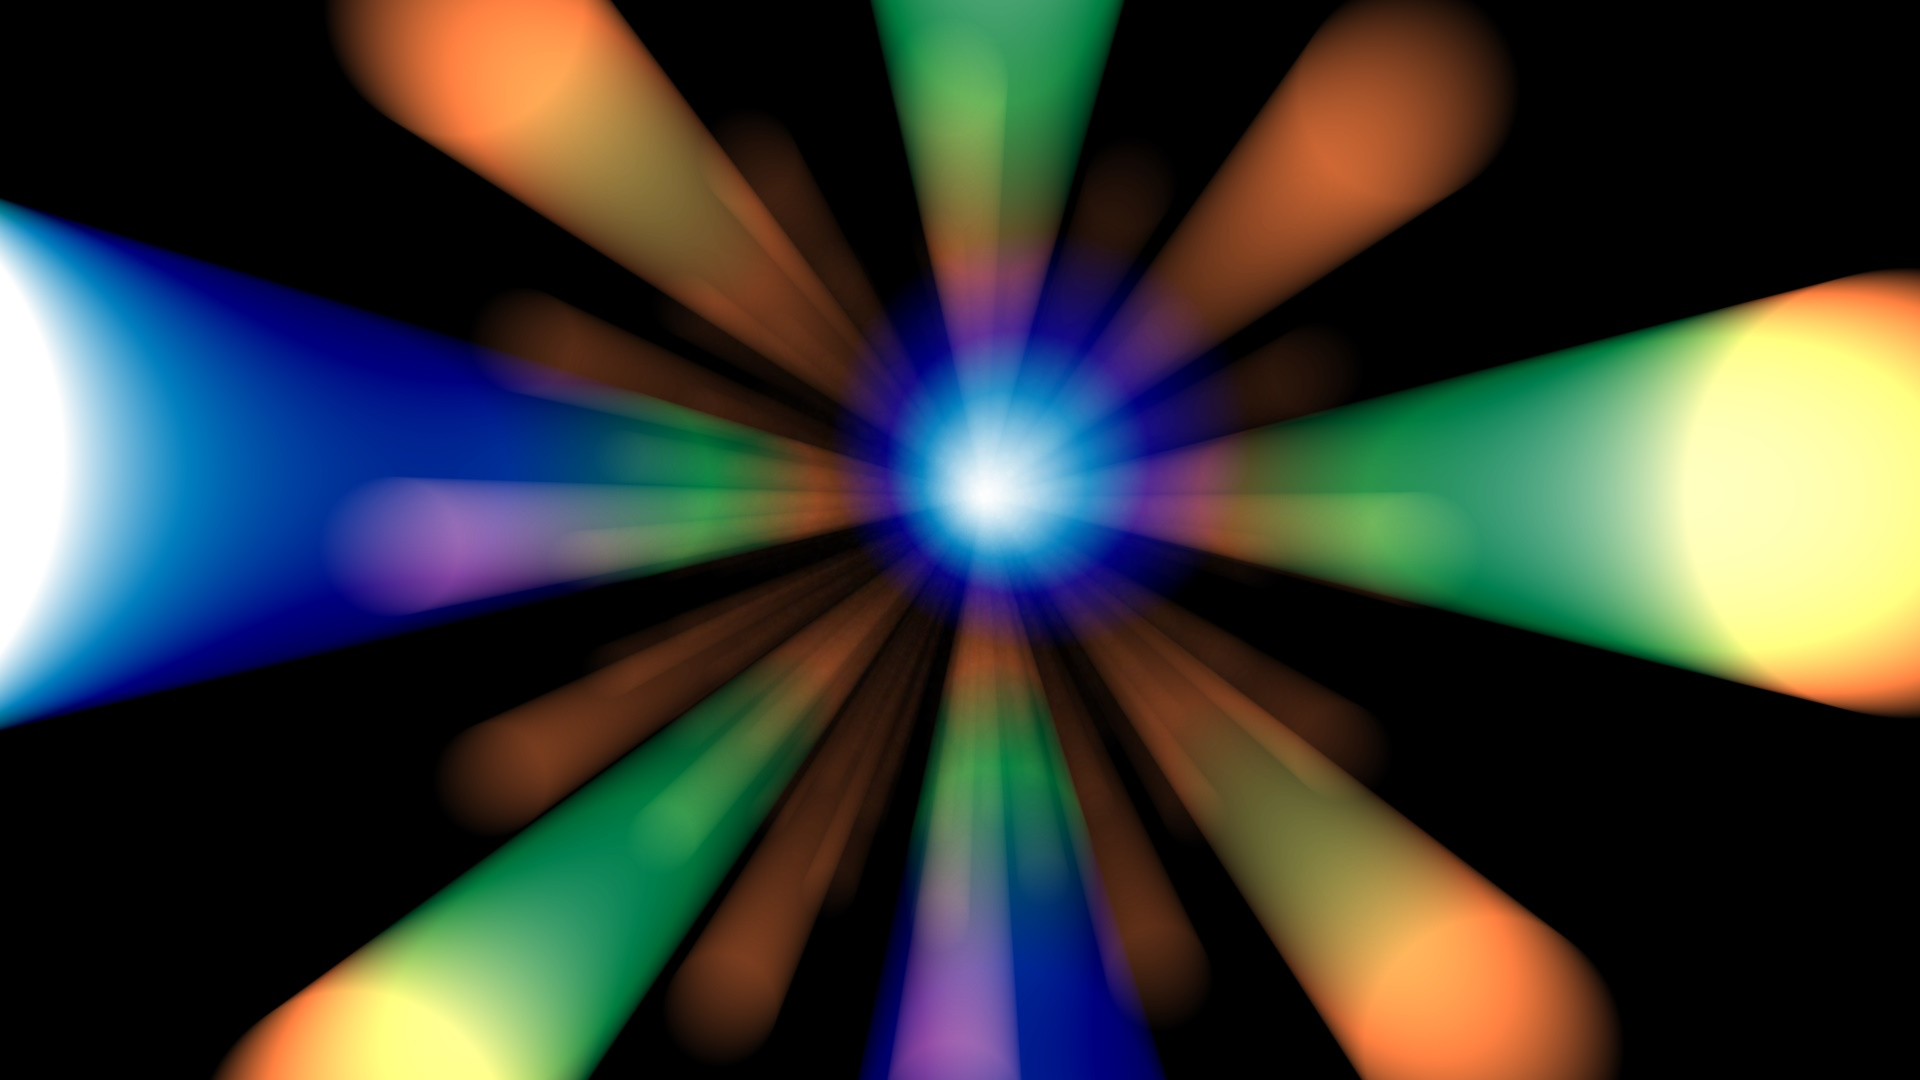
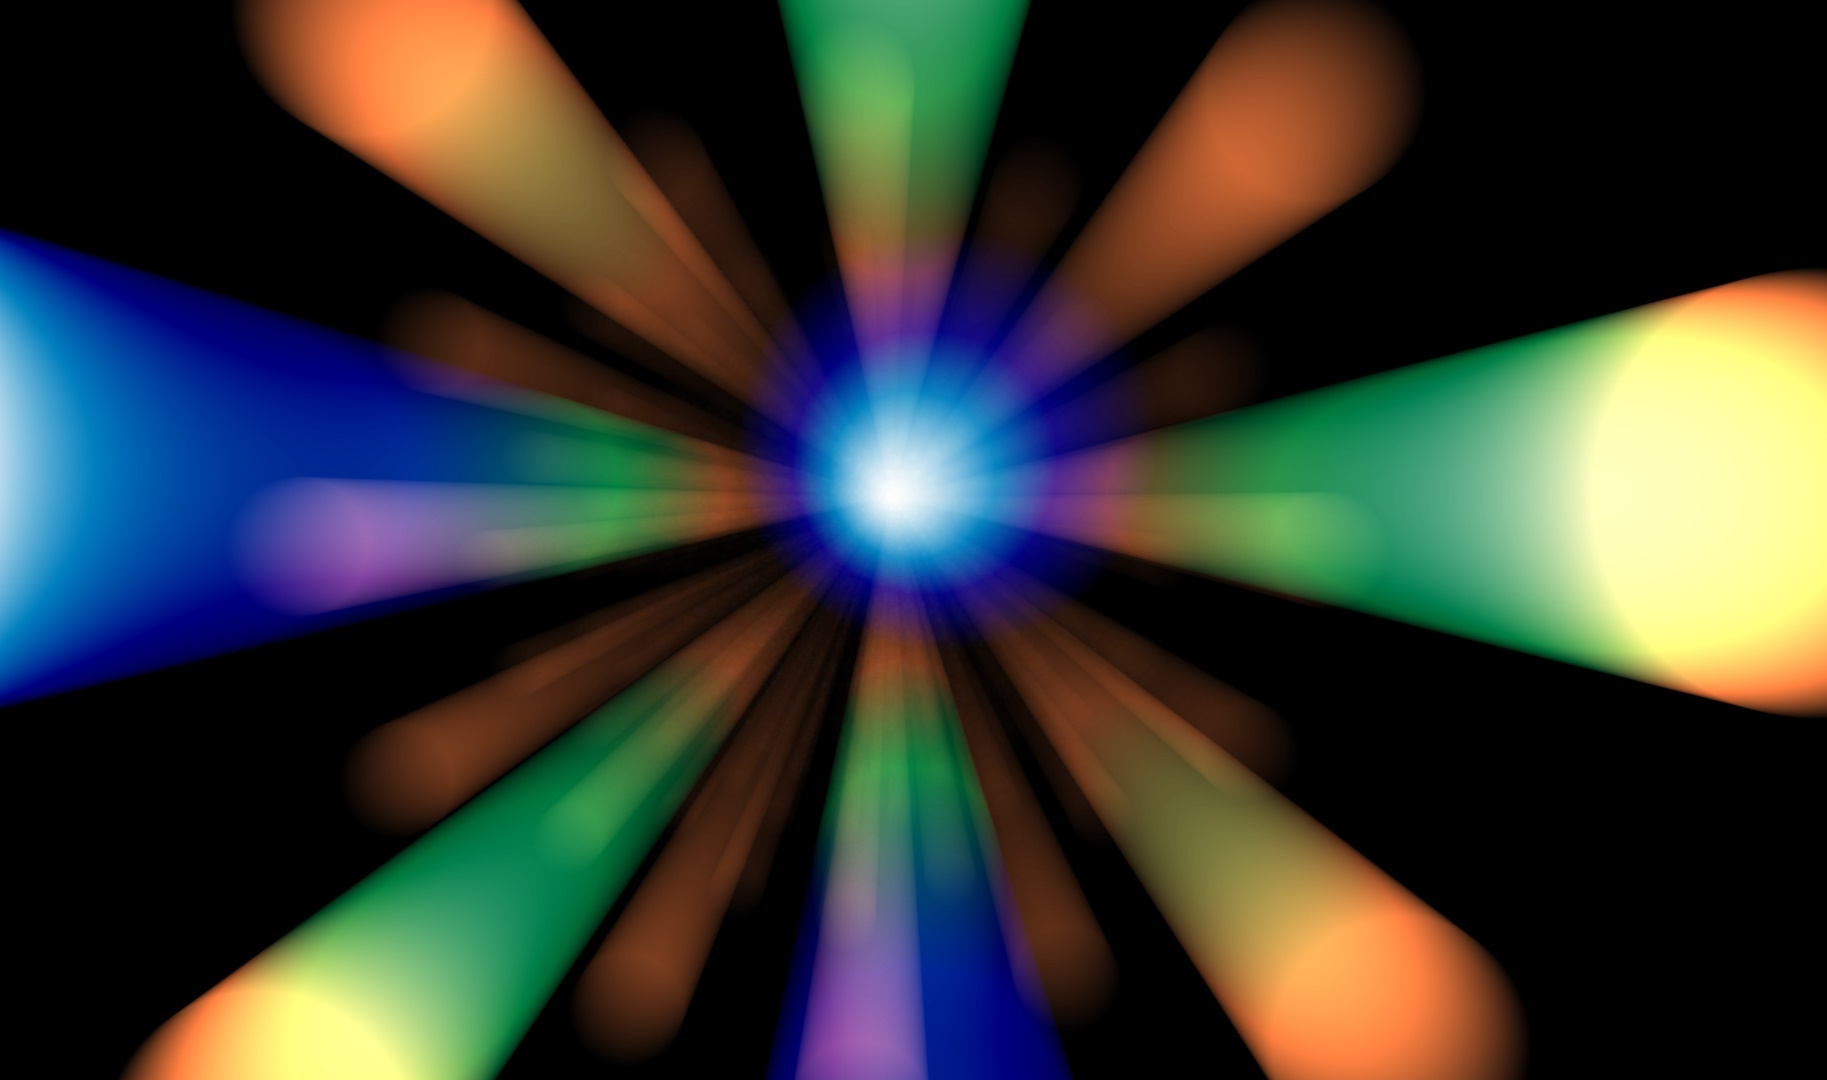
🌐 [website] Better align hero image

diff --git a/website/src/components/Hero.module.css b/website/src/components/Hero.module.css
@@ -45,8 +45,6 @@
   background-image: url("/img/hero.jpg");
   background-size: cover;
   background-position: center;
-  /* filter: blur(3px); */
-  transform: scale(1.05) translateX(-2%) translateY(-2.2%);
   z-index: 0;
 }
 
@@ -85,11 +83,10 @@
     height: 95vh;
   }
   .heroContent {
-    padding: 0em 2em;
+    margin-bottom: 15vh;
   }
   .heroTitle {
     font-size: 5em;
-    margin-top: 1em;
   }
   .heroSubtitle {
     font-size: 1.3em;
